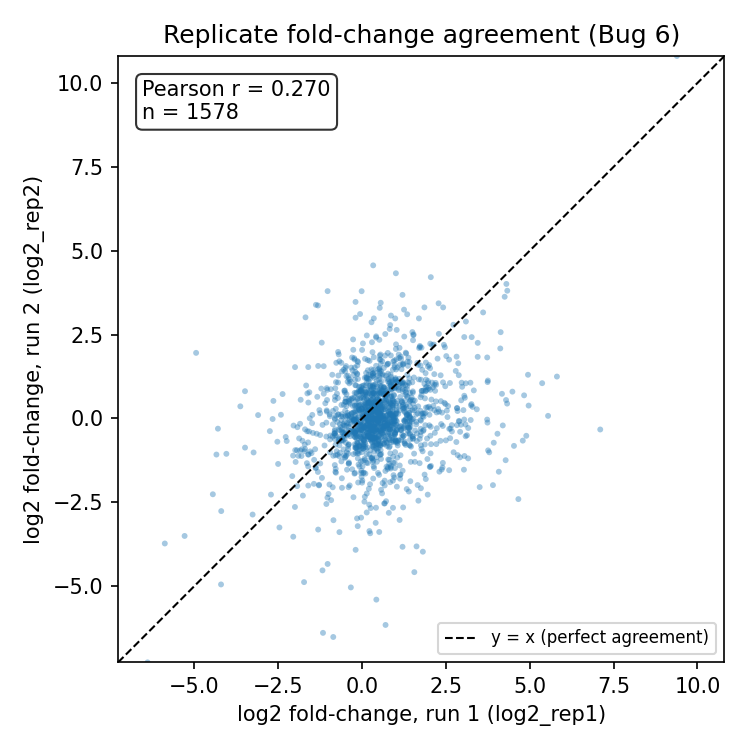
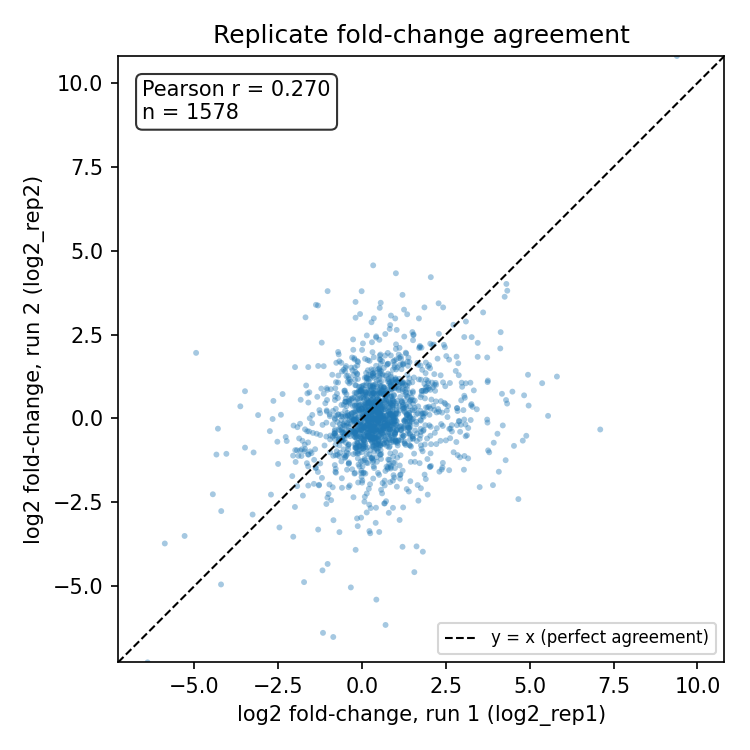
chore: drop internal bug-tracker reference from replicate QC title
"Replicate fold-change agreement (Bug 6)" -> "Replicate fold-change
agreement" in the figure title -- an internal tracker reference has no
business in a plot a collaborator sees. Regenerates
replicate_correlation.png and re-baselines the byte-freeze manifest
for that one file; no other frozen output moved.

Changed region(s): [[0.2147, 0.0307, 0.92, 0.0613]]

diff --git a/proteomics_de/replicate_check.py b/proteomics_de/replicate_check.py
@@ -113,7 +113,7 @@ def _make_figure(rep1, rep2, fc_pearson_r, results_dir):
     ax.set_aspect("equal")
     ax.set_xlabel("log2 fold-change, run 1 (log2_rep1)")
     ax.set_ylabel("log2 fold-change, run 2 (log2_rep2)")
-    ax.set_title("Replicate fold-change agreement (Bug 6)")
+    ax.set_title("Replicate fold-change agreement")
     r_text = "n/a" if fc_pearson_r is None else f"{fc_pearson_r:.3f}"
     ax.annotate(
         f"Pearson r = {r_text}\nn = {len(rep1)}",
